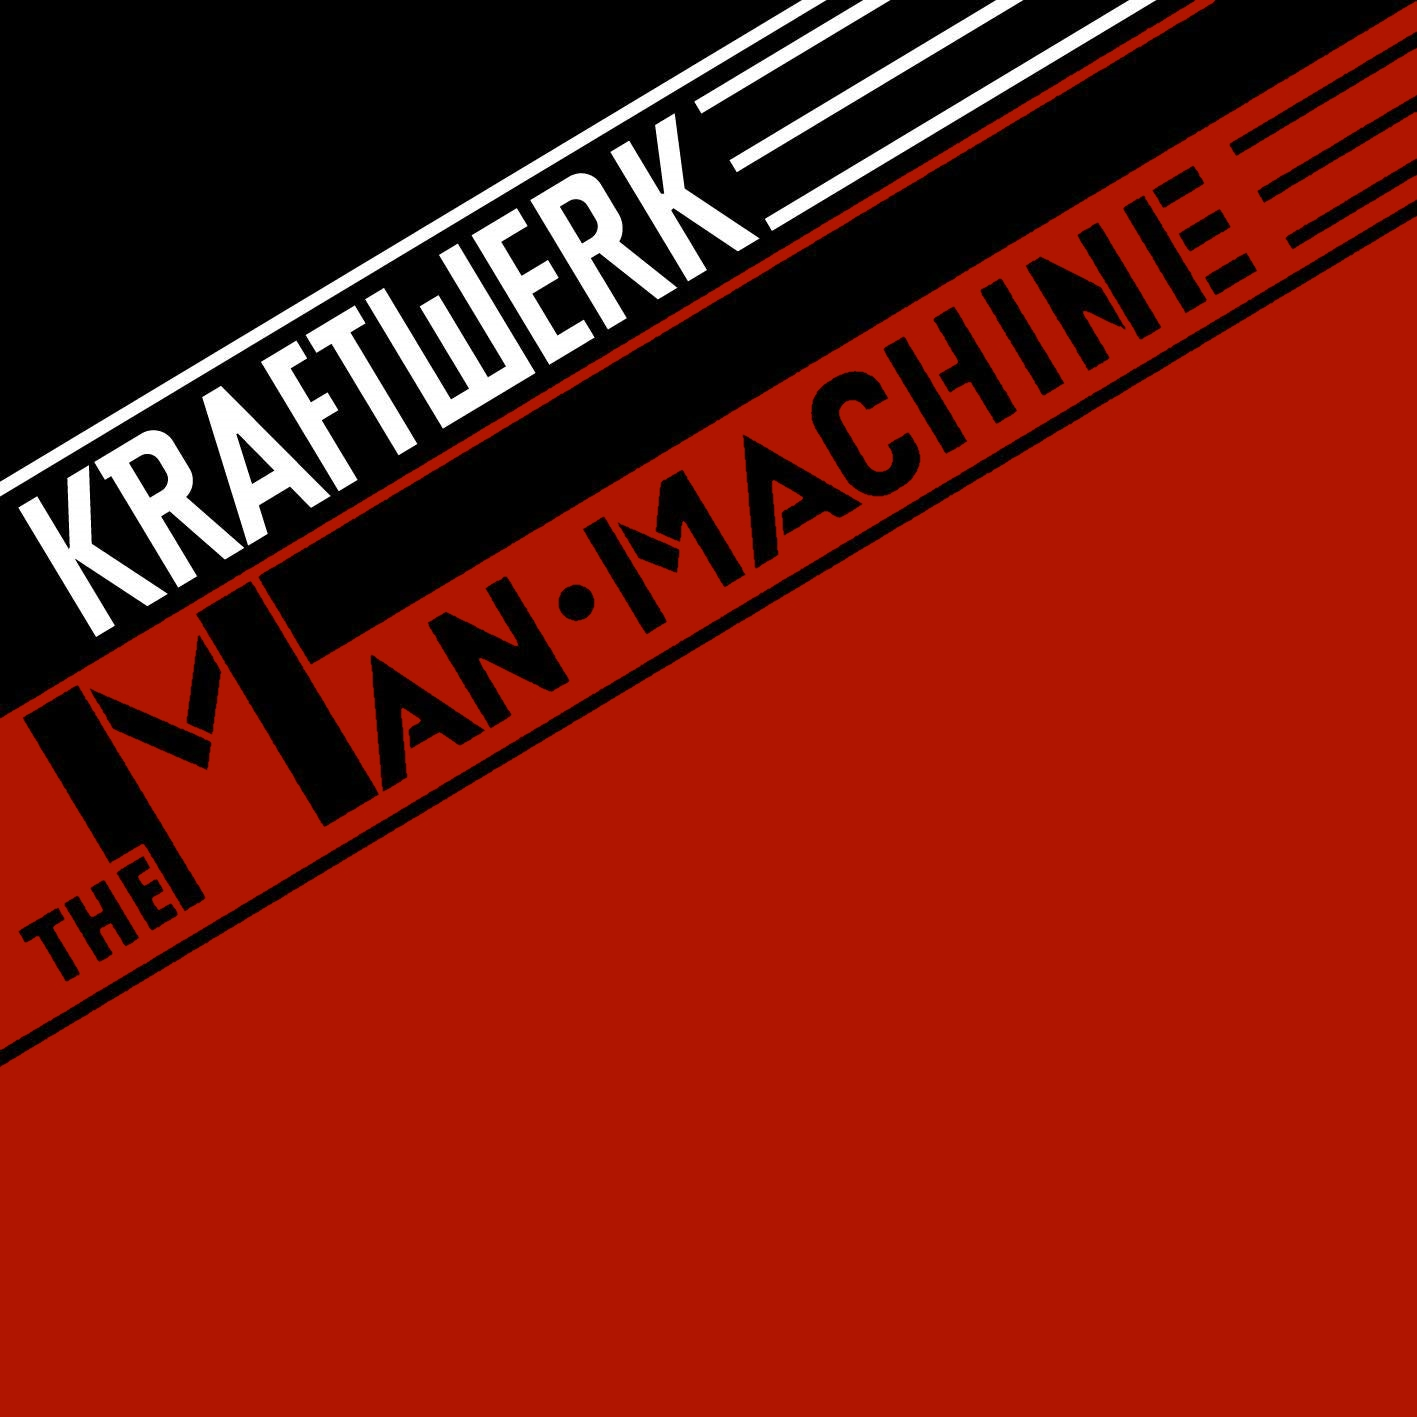
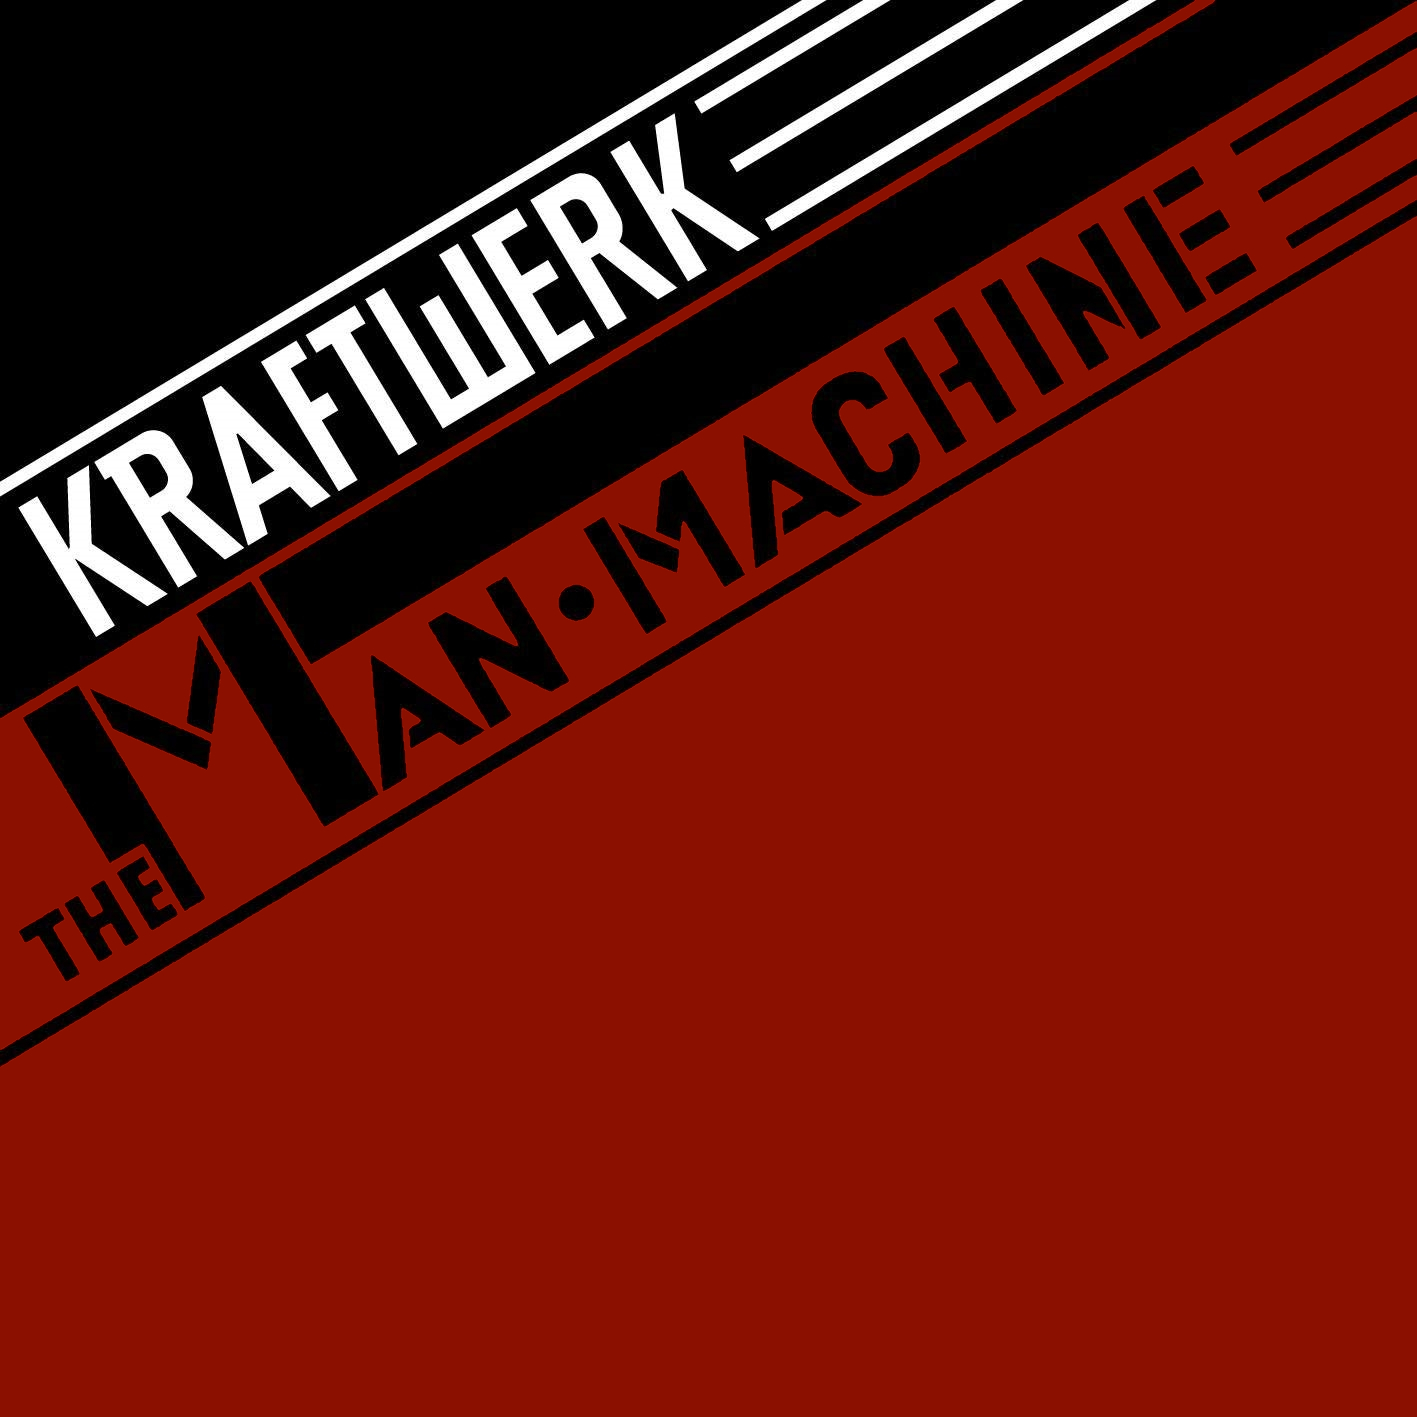
Changes to colour scheme and fonts

diff --git a/style.css b/style.css
@@ -3,7 +3,7 @@ font-family: "ManMachine";
 src: url("fonts/ManMachine.ttf");
 }
 @font-face {
-font-family: "RobotoThin";
+font-family: "Roboto Thin";
 src: url("fonts/Roboto-Thin.ttf");
 }
 @font-face {
@@ -28,7 +28,7 @@ src: url("fonts/Roboto-Regular.ttf");
 		height: 32px;
 		line-height: 32px;
 		font-size: 19px;
-		font-family: 'RobotoThin', Arial, sans-serif;
+		font-family: "Roboto Thin", Arial, sans-serif;
 		}
 	ul {
 		display: none;
@@ -79,7 +79,7 @@ src: url("fonts/Roboto-Regular.ttf");
 		height: 32px;
 		line-height: 32px;
 		font-size: 19px;
-		font-family: 'RobotoThin', Arial, sans-serif;
+		font-family: "Roboto Thin", Arial, sans-serif;
 		}
 	ul {
 		display: none;
@@ -130,7 +130,7 @@ src: url("fonts/Roboto-Regular.ttf");
 		height: 32px;
 		line-height: 32px;
 		font-size: 19px;
-		font-family: 'RobotoThin', Arial, sans-serif;
+		font-family: "Roboto Thin", Arial, sans-serif;
 		}
 	ul {
 		display: none;
@@ -176,7 +176,7 @@ src: url("fonts/Roboto-Regular.ttf");
 		height: 32px;
 		line-height: 32px;
 		font-size: 24px;
-		font-family: 'RobotoThin', Arial, sans-serif;
+		font-family: "Roboto Thin", Arial, sans-serif;
 		}
 	ul {
 		display: none;
@@ -222,7 +222,7 @@ src: url("fonts/Roboto-Regular.ttf");
 		height: 32px;
 		line-height: 32px;
 		font-size: 24px;
-		font-family: 'RobotoThin', Arial, sans-serif;
+		font-family: "Roboto Thin", Arial, sans-serif;
 		}
 	ul {
 		display: none;
@@ -266,7 +266,7 @@ src: url("fonts/Roboto-Regular.ttf");
 	}
 	li {
 		margin-right: 25px;
-		font-family: 'RobotoThin', Arial, sans-serif;
+		font-family: "Roboto Thin", Arial, sans-serif;
 		width: 83px;
 		height: 32px;
 		line-height: 32px;
@@ -311,7 +311,7 @@ src: url("fonts/Roboto-Regular.ttf");
 	}
 	li {
 		margin-right: 25px;
-		font-family: 'RobotoThin', Arial, sans-serif;
+		font-family: "Roboto Thin", Arial, sans-serif;
 		width: 83px;
 		height: 32px;
 		line-height: 32px;
@@ -358,7 +358,7 @@ src: url("fonts/Roboto-Regular.ttf");
 		margin-right: 25px;
 		height: 34px;
 		width: 99px;
-		font-family: 'RobotoThin', Arial, sans-serif;
+		font-family: "Roboto Thin", Arial, sans-serif;
 		font-size: 26px;
 		}
 	footer {
@@ -398,7 +398,7 @@ src: url("fonts/Roboto-Regular.ttf");
 		margin-right: 25px;
 		height: 34px;
 		width: 99px;
-		font-family: 'RobotoThin', Arial, sans-serif;
+		font-family: "Roboto Thin", Arial, sans-serif;
 		font-size: 26px;
 		}
 	footer {
@@ -439,7 +439,7 @@ src: url("fonts/Roboto-Regular.ttf");
 		line-height: 38px;
 		width: 107px;
 		height: 38px;
-		font-family: 'RobotoThin', Arial, sans-serif;
+		font-family: "Roboto Thin", Arial, sans-serif;
 		font-size: 29px;
 		}
 	footer {
@@ -470,7 +470,7 @@ src: url("fonts/Roboto-Regular.ttf");
 	.table {
 		max-width: 70%;
 		font-size: 14px;
-		font-family: 'RobotoThin', Arial, sans-serif;
+		font-family: "Roboto Thin", Arial, sans-serif;
 	}
 }
 @-webkit-keyframes fadeOut {
@@ -503,12 +503,12 @@ html, body {
 h1 {
 	font-family: 'ManMachine', Arial, sans-serif;
 	text-shadow: 1px 0px 9px rgba(130, 130, 130, 1);
-	color: white;
+	color: #FFFFFF;
 	}
 h2 {
 	font-family: 'ManMachine', Arial, sans-serif;
 	text-shadow: 1px 0px 9px rgba(130, 130, 130, 1);
-	color: white;
+	color: #FFFFFF;
 	}
 li {
 	list-style-type: none;
@@ -518,23 +518,23 @@ li {
 li span:hover {
 	text-decoration: none;
 	color: #FFFFFF;
-	background: #E82B01;
-	background: -moz-linear-gradient(-45deg, #E82B01 0%, #D02A04 100%);
-	background: -webkit-linear-gradient(-45deg, #E82B01 0%,#D02A04 100%);
-	background: linear-gradient(135deg, #E82B01 0%,#D02A04 100%);
-	filter: progid:DXImageTransform.Microsoft.gradient( startColorstr='#E82B01', endColorstr='#D02A04',GradientType=1 );
-	opacity: 0.9;
+	background: #AF1400;
+	background: -moz-linear-gradient(-45deg, #AF1400 0%, #D02A04 100%);
+	background: -webkit-linear-gradient(-45deg, #AF1400 0%,#D02A04 100%);
+	background: linear-gradient(135deg, #AF1400 0%,#D02A04 100%);
+	filter: progid:DXImageTransform.Microsoft.gradient( startColorstr='#AF1400', endColorstr='#D02A04',GradientType=1 );
+	opacity: 0.7;
 	}
 a {
-	color: white;
+	color: #FFFFFF;
 	}
 a:hover {
-	color: white;
+	color: #FFFFFF;
 	text-decoration: none;
 	}
 i {
 	padding-top: 11px;
-	color: white;
+	color: #FFFFFF;
 	opacity: 1;
 	}
 i:hover {
@@ -551,23 +551,25 @@ video {
 			animation-fill-mode: both;
 	}
 button {
-	background-color: #E82B01;
-	border: 3px solid #E42B01;
+	background-color: #AF1400;
+	border: 3px solid #AF1400;
+	color: #FFFFFF;
 	text-decoration: none;
-	font-family: 'RobotoThin', Arial, sans-serif;
+	font-family: 'Roboto Thin', Arial, sans-serif;
 	-webkit-animation-duration: 1s;animation-duration: 1s;
     -webkit-animation-fill-mode: both;animation-fill-mode: both;
 	}
 button:focus {
 	outline: 0;
-	background-color: white;
-	border: 3px solid white;
+	color: black;
+	background-color: #FFFFFF;
+	border: 3px solid #FFFFFF;
 	}
 button:hover {
 	cursor: pointer;
 	}
 .current {
-	color: #E82B01;
+	color: #AF1400;
 	opacity: 0.5;
 	}
 .header {
@@ -583,7 +585,7 @@ button:hover {
 	}
 .form_control {
 	text-align: center;
-	color: white;
+	color: #FFFFFF;
 	width: 100%;
 	}
 .text-focus-in {
@@ -626,21 +628,23 @@ img {
 .my_dropdown-content {
     display: none;
     position: absolute;
+    font-family: 'Roboto Regular';
     right: 0;
-    background-color: #E82B01;
-    opacity: 0.7;
+    background-color: #AF1400;
+    opacity: 0.9;
     min-width: 160px;
     z-index: 1;
 }
 
 .my_dropdown-content a {
-    color: black;
+    color: #FFFFFF;
     padding: 12px 16px;
     text-decoration: none;
     display: block;
 }
 .my_dropdown-content a:hover {
-	background-color: #F2F2F2;
+	background-color: #FFFFFF;
+	color: black;
 }
 .my_dropdown:hover .my_dropdown-content {
     display: block;
@@ -650,18 +654,18 @@ img {
 }
 .dropbtn {
 	background-color: Transparent;
-	color: white;
+	color: #FFFFFF;
 	border: none;
 }
 .dropbtn:focus {
 	background-color: Transparent;
-	color: white;
+	color: #FFFFFF;
 	opacity: 0.8;
 	border: none;
 }
 .dropbtn:hover {
 	background-color: Transparent;
-	color: white;
+	color: #FFFFFF;
 	opacity: 0.8;
 	border: none;
 }
